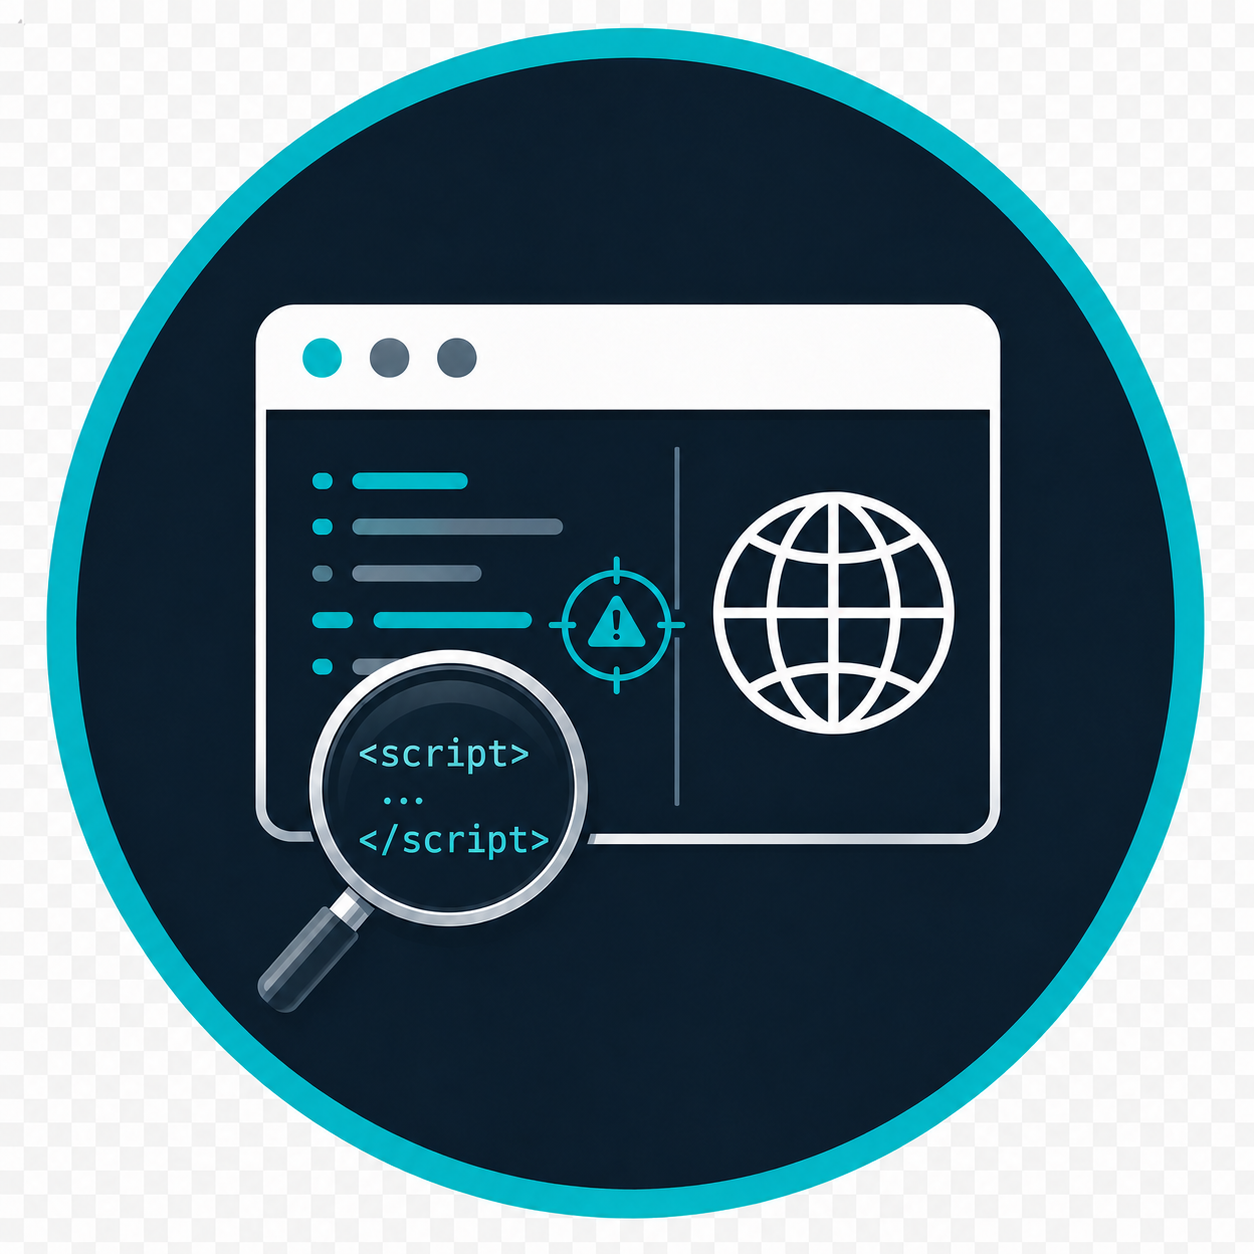
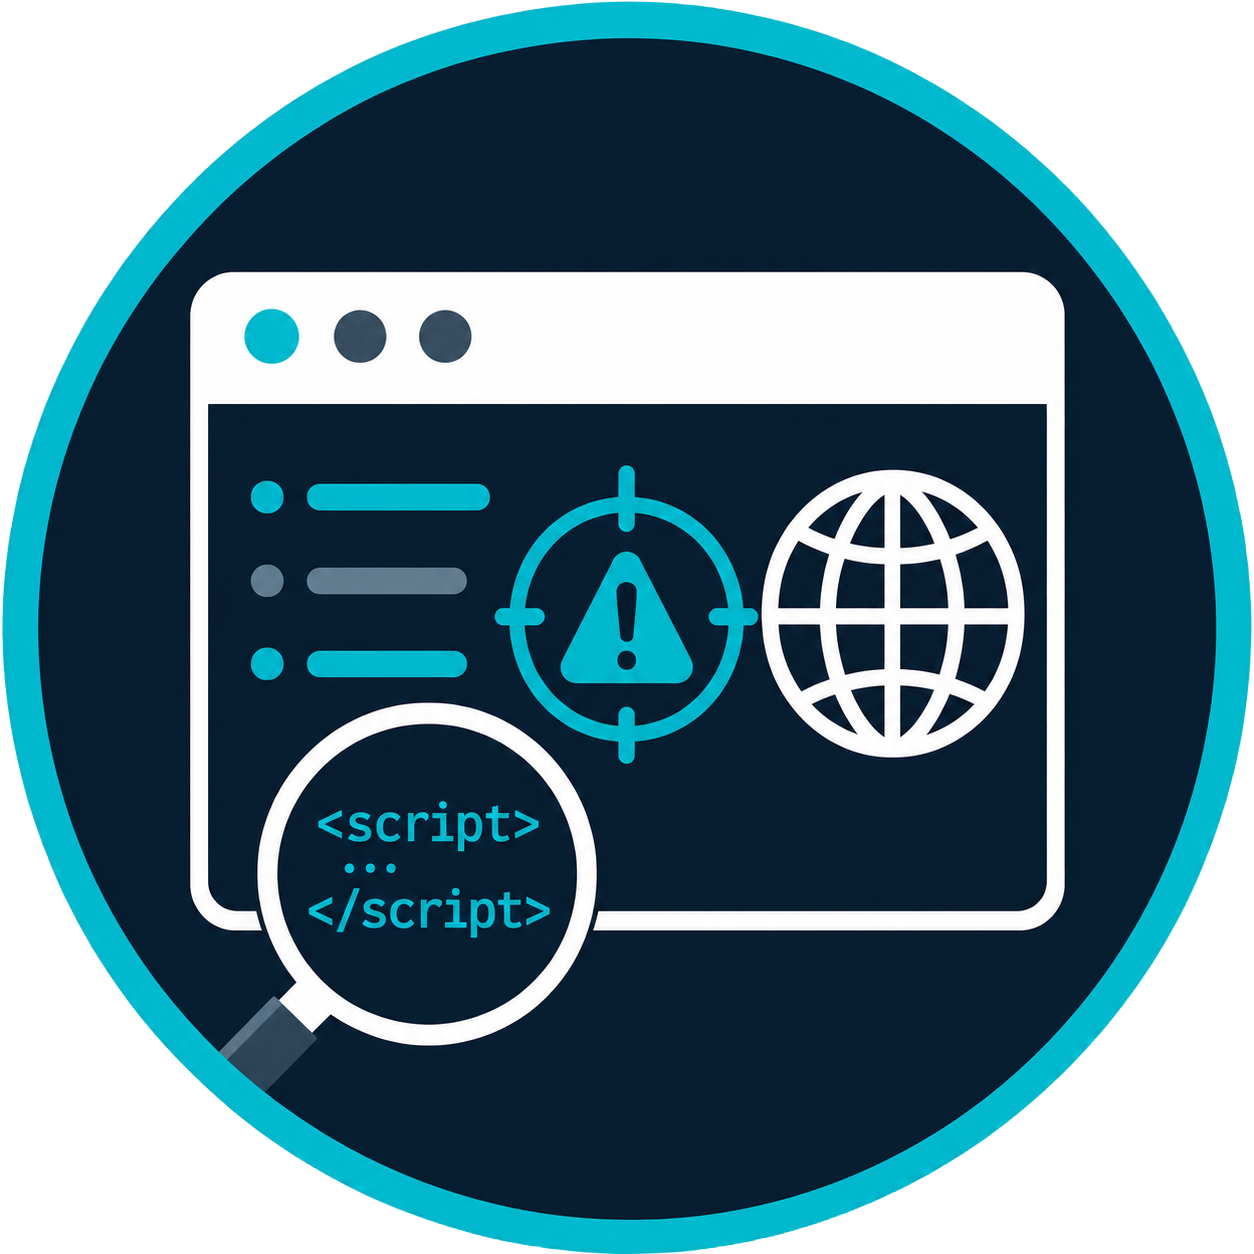
improve visuals

diff --git a/app/assets/stylesheets/aboutme.scss b/app/assets/stylesheets/aboutme.scss
@@ -316,6 +316,13 @@
     overflow-wrap: anywhere;
 }
 
+.aboutme-card-kicker {
+    color: #7dd3fc;
+    font-size: 0.76rem;
+    font-weight: 900;
+    line-height: 1.1;
+}
+
 .aboutme-card-summary,
 .aboutme-finding-summary {
     color: rgba(226, 232, 240, 0.82);
@@ -386,19 +393,6 @@ a.aboutme-card-tag:focus-visible {
     border-color: rgba(125, 211, 252, 0.82);
     background: rgba(8, 145, 178, 0.38);
     transform: translateY(-1px);
-}
-
-.aboutme-tag-certification {
-    color: #fef3c7;
-    border-color: rgba(250, 204, 21, 0.52);
-    background: rgba(161, 98, 7, 0.22);
-}
-
-a.aboutme-tag-certification:hover,
-a.aboutme-tag-certification:focus-visible {
-    color: #fffbeb;
-    border-color: rgba(250, 204, 21, 0.85);
-    background: rgba(161, 98, 7, 0.34);
 }
 
 .aboutme-card-link-overlay {

diff --git a/app/services/content_index.rb b/app/services/content_index.rb
@@ -46,12 +46,15 @@ class ContentIndex
   end
 
   def featured_items(limit = 3)
+    featured_about_items(limit)
+  end
+
+  def featured_about_items(limit = 3)
     candidates = [
-      latest_featured_about("cve") { |item| item[:cve_id].present? },
-      latest_featured_about("bug-bounty") { |item| meaningful_description?(item) },
-      latest_post { |item| item[:writeup_winner].present? },
-      latest_featured_about("certificate") { |item| meaningful_description?(item) },
-      latest_featured_about("challenge") { |item| meaningful_description?(item) }
+      latest_featured_about_entry("cve") { |item| item[:entry]["cve_id"].present? },
+      latest_featured_about_entry("bug-bounty") { |item| meaningful_description?(item) },
+      latest_featured_about_entry("certificate") { |item| meaningful_description?(item) },
+      latest_featured_about_entry("challenge") { |item| meaningful_description?(item) }
     ].compact
 
     candidates.uniq { |item| item[:id] }.sort_by { |item| -item[:published].to_i }.first(limit)
@@ -196,26 +199,40 @@ class ContentIndex
     )
   end
 
-  def latest_featured_about(kind)
-    all_items.find do |item|
-      item[:kind] == kind && item[:featured] && yield(item)
+  def latest_featured_about_entry(kind)
+    featured_about_entry_items.find do |item|
+      item[:kind] == kind && yield(item)
     end
   end
 
-  def latest_post
-    all_items.find do |item|
-      %w[writeup blog].include?(item[:kind]) && yield(item)
-    end
+  def featured_about_entry_items
+    @featured_about_entry_items ||= ABOUT_COLLECTIONS.select { |collection| collection[:featured] }.flat_map do |collection|
+      repository.about_entries(collection[:path]).filter_map do |entry|
+        id = entry["id"].presence || entry["title"].to_s.parameterize
+        next if id.blank?
+
+        {
+          id: "about-#{collection[:kind]}-#{id.parameterize}",
+          kind: collection[:kind],
+          label: collection[:label],
+          entry: entry,
+          published: about_published_time(entry, collection[:path])
+        }
+      end
+    end.sort_by { |item| -item[:published].to_i }
   end
 
   def meaningful_description?(item)
-    item[:description].present? && !item[:title].to_s.match?(/\bTBA\b/i)
+    if item[:entry].present?
+      item[:entry]["summary"].present? && !item[:entry]["title"].to_s.match?(/\bTBA\b/i)
+    else
+      item[:description].present? && !item[:title].to_s.match?(/\bTBA\b/i)
+    end
   end
 
   def about_description(entry)
     entry["short_summary"].presence ||
       entry["summary"].presence ||
-      Array(entry["details"]).map(&:to_s).find(&:present?) ||
       ""
   end
 

diff --git a/app/helpers/aboutme_helper.rb b/app/helpers/aboutme_helper.rb
@@ -64,13 +64,9 @@ module AboutmeHelper
     end
   end
 
-  def aboutme_visible_details(details)
-    Array(details).select(&:present?)
-  end
-
   def aboutme_visible_events(events)
     Array(events).select do |event|
-      event.is_a?(Hash) && %w[title date summary details links url].any? { |field| event[field].present? }
+      event.is_a?(Hash) && %w[title date summary card_url url].any? { |field| event[field].present? }
     end
   end
 
@@ -125,10 +121,7 @@ module AboutmeHelper
   end
 
   def aboutme_milestone_card(entry)
-    details = aboutme_visible_details(entry["details"])
     events = aboutme_visible_events(entry["events"])
-    body_blocks = []
-    body_blocks << { items: details } if details.any?
 
     {
       id: entry["id"],
@@ -138,7 +131,7 @@ module AboutmeHelper
       title_link: false,
       description: entry["summary"],
       tags: aboutme_milestone_tags(entry, events),
-      body_blocks: body_blocks,
+      body_blocks: [],
       children: events.map { |event| aboutme_event_card(entry, event) },
       collapsible: false,
       card_url: entry["card_url"].presence || entry["title_url"].presence,
@@ -177,9 +170,6 @@ module AboutmeHelper
   end
 
   def aboutme_event_card(entry, event)
-    event_details = aboutme_visible_details(event["details"])
-    event_body_blocks = []
-    event_body_blocks << { items: event_details } if event_details.any?
     event_id = event["id"].presence || [ entry["id"].presence || entry["title"], event["date"], event["title"] ].compact.join("-").parameterize
 
     {
@@ -188,7 +178,7 @@ module AboutmeHelper
       title: event["title"],
       description: event["summary"],
       tags: aboutme_event_tags(event),
-      body_blocks: event_body_blocks,
+      body_blocks: [],
       collapsible: false,
       card_url: event["card_url"].presence || event["url"].presence || entry["card_url"].presence || entry["title_url"].presence,
       aria_label: "Open #{event["title"].presence || entry["title"]}"

diff --git a/test/controllers/aboutme_controller_test.rb b/test/controllers/aboutme_controller_test.rb
@@ -98,10 +98,14 @@ class AboutmeControllerTest < ActionDispatch::IntegrationTest
     assert_equal 1, challenges.length
     assert_equal [ "smile-at-me" ], challenges.map { |entry| entry["id"] }
     assert_equal "Smile at me", challenges.first["title"]
+    assert_nil challenges.first["details"]
+    assert_includes challenges.first["summary"], "Published for GPNCTF 2025"
     assert_equal "GPNCTF 2025", challenges.first["category"]
     assert_equal "/ctf/gpnctf/Smile%20at%20me", challenges.first["title_url"]
     assert_equal "/ctf/gpnctf/Smile%20at%20me", challenges.first["card_url"]
     assert_equal "https://ctftime.org/ctf/854/", challenges.first["category_url"]
+    assert_nil certificates.first["details"]
+    assert_includes certificates.first["summary"], "full penetration-test report"
     assert_equal "/blog/htb-cpts", certificates.first["card_url"]
     assert_equal "https://www.credly.com/badges/a9a49759-8f35-4c46-8783-a11a4a1bfdf0/public_url", certificates.first["category_url"]
     assert_equal %w[

diff --git a/test/system/site_pages_test.rb b/test/system/site_pages_test.rb
@@ -461,7 +461,9 @@ class SitePagesTest < ApplicationSystemTestCase
     assert_no_selector ".landing-metric[href='/ctf']", text: "CTFs"
     assert_no_selector ".landing-metric", text: "Tags"
     assert_selector ".landing-featured-card.aboutme-card", count: 3
-    assert_selector ".landing-featured-card .aboutme-card-header", count: 3
+    assert_equal 3, page.evaluate_script("document.querySelectorAll('.landing-featured-card .aboutme-card-header, .landing-featured-card > summary').length")
+    assert_selector ".landing-featured-card .aboutme-card-kicker", text: "CVE"
+    assert_selector ".landing-featured-card .aboutme-card-kicker", text: "Certificate"
     assert_no_selector ".landing-featured-topline"
     assert_selector ".landing-featured-card", text: "CVE"
     assert_selector ".landing-featured-card", text: /Certificate/i

diff --git a/test/views/aboutme_milestone_card_test.rb b/test/views/aboutme_milestone_card_test.rb
@@ -10,10 +10,7 @@ class AboutmeMilestoneCardTest < ActionView::TestCase
         "category" => "Competition",
         "category_url" => "https://example.com/competition",
         "date" => "2026",
-        "summary" => "Placed well in an example event.",
-        "details" => [
-          "Solved practical web and pwn tasks."
-        ],
+        "summary" => "Placed well in an example event after solving practical web and pwn tasks.",
         "events" => [
           {
             "id" => "example-2026",
@@ -51,7 +48,6 @@ class AboutmeMilestoneCardTest < ActionView::TestCase
         "category" => "",
         "date" => "",
         "summary" => "",
-        "details" => [ "" ],
         "links" => [
           { "label" => "", "url" => "" }
         ]

diff --git a/app/services/content_json_schemas.rb b/app/services/content_json_schemas.rb
@@ -71,7 +71,7 @@ class ContentJsonSchemas
 
   MILESTONE = {
     "type" => "object",
-    "required" => %w[id title title_url category date summary details links],
+    "required" => %w[id title title_url category date summary links],
     "additionalProperties" => false,
     "properties" => {
       "id" => STRING,
@@ -82,7 +82,6 @@ class ContentJsonSchemas
       "category_url" => STRING,
       "date" => DATE,
       "summary" => STRING,
-      "details" => { "type" => "array", "items" => STRING },
       "links" => { "type" => "array", "items" => LINK }
     }
   }.freeze

diff --git a/test/system/aboutme_test.rb b/test/system/aboutme_test.rb
@@ -254,7 +254,7 @@ class AboutmeTest < ApplicationSystemTestCase
 
     within "#my-challenges" do
       assert_text "Smile at me"
-      assert_text "CTF challenge published for GPNCTF 2025."
+      assert_text "Published for GPNCTF 2025."
       find(".aboutme-card-link-overlay[href='/ctf/gpnctf/Smile%20at%20me']", visible: :all).click
     end
 

diff --git a/app/assets/aboutme/schema.md b/app/assets/aboutme/schema.md
@@ -38,17 +38,14 @@ Challenge, certificate, and achievement entries support these fields:
   "category": "Competition",
   "category_url": "https://example.com/category",
   "date": "2026",
-  "summary": "One-line summary.",
-  "details": [
-    "Optional detail."
-  ],
+  "summary": "Summary shown on the card.",
   "links": [
     { "label": "Reference", "url": "https://example.com" }
   ]
 }
 ```
 
-`summary` and `details` are optional for TBA milestone cards.
+Use `summary` for all visible card text. Keep it empty only for TBA milestone cards.
 
 Achievement entries can group dated events so every event becomes its own search and timeline item:
 
@@ -75,4 +72,4 @@ Achievement entries can group dated events so every event becomes its own search
 }
 ```
 
-Use event-level `id`, `title`, and `date` for timeline entries. Event `summary`, `details`, `links`, and `url` are optional.
+Use event-level `id`, `title`, and `date` for timeline entries. Event `summary`, `card_url`, and `url` are optional.
